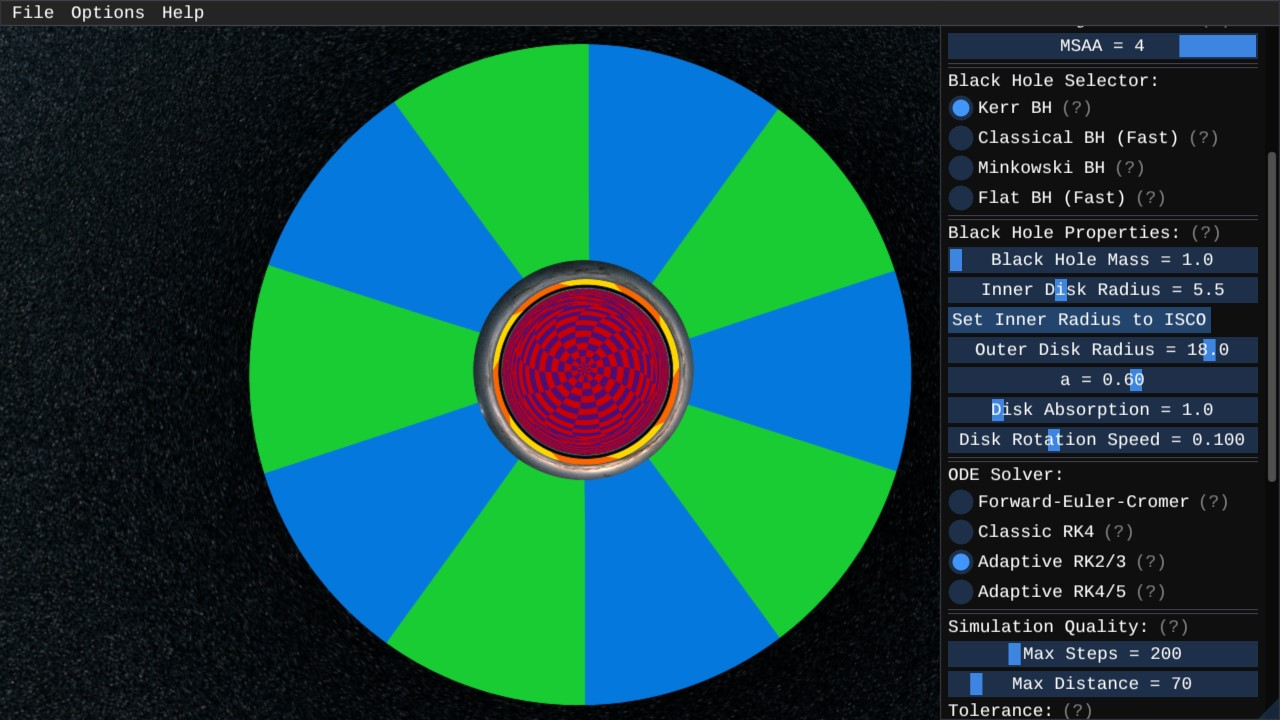
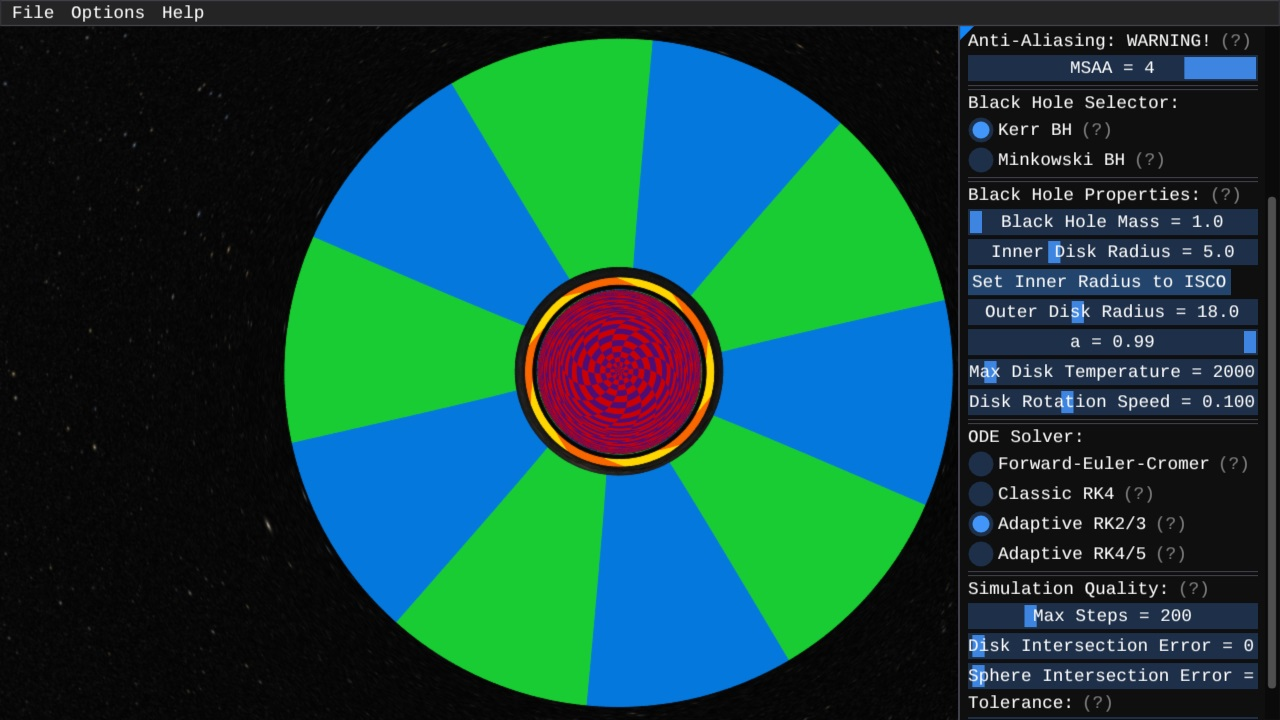
Updated README and README images.  Updated cube map to use NASA's skymap rather than ESA's.  Minor GUI updates for BlackHole.cpp.

diff --git a/voidstar/src/scenes/blackhole/BlackHole.cpp b/voidstar/src/scenes/blackhole/BlackHole.cpp
@@ -537,12 +537,14 @@ void BlackHole::ImGuiBHProperties()
     }
     ImGui::SliderFloat("##OuterDiskRadius", &m_diskOuterRadius, m_diskInnerRadius, 20.0f * m_radius,
         "Outer Disk Radius = %.1f");
-    if (ImGui::SliderFloat("##a", &m_a, 0.0f, fmin(m_mass - 0.01f, 0.99f), "a = %.2f"))
+    if (m_shaderSelector == 0)
     {
-        CalculateISCO();
+        if (ImGui::SliderFloat("##a", &m_a, 0.0f, fmin(m_mass - 0.01f, 0.99f), "a = %.2f"))
+        {
+            CalculateISCO();
+        }
     }
     ImGui::SliderFloat("##Max Temperature", &m_Tmax, 1000.0f, 20000.0f, "Max Disk Temperature = %.0f");
-    ImGui::SliderFloat("##DiskAbsorption", &m_diskAbsorption, 0.0f, 7.0f, "Disk Absorption = %.1f");
     ImGui::SliderFloat("##DiskRotationSpeed", &m_diskRotationSpeed, 0.0f, 0.3f, "Disk Rotation Speed = %.3f");
 }
 
@@ -638,11 +640,16 @@ void BlackHole::ImGuiCinematic()
     }
     ImGui::Separator();
     ImGui::Separator();
-    ImGui::SliderFloat("##BackgroundMultiplier", &m_bloomBackgroundMultiplier, 0.0f, 1.0f, "Background = %.2f");
-    ImGui::SliderFloat("##DiskMultiplier", &m_bloomDiskMultiplier, 0.0f, 10.0f, "Disk = %.1f");
+
+    float maxBackgroundMultiplier = m_useBloom ? 10.0f : 1.0f;
+    float maxEmissionMultiplier = m_useBloom ? 10.0f : 1.0f;
+    ImGui::SliderFloat("##BackgroundMultiplier", &m_bloomBackgroundMultiplier, 0.0f, maxBackgroundMultiplier, "Background = %.2f");
+    ImGui::SliderFloat("##DiskMultiplier", &m_bloomDiskMultiplier, 0.0f, maxEmissionMultiplier, "Disk Emission = %.1f");
+    ImGui::SliderFloat("##DiskAbsorption", &m_diskAbsorption, 0.0f, 10.0f, "Disk Absorption = %.1f");
     ImGui::SliderFloat("##dMdt", &m_dMdt, 0.0f, 30000.0f, "dM/dt = %.0f");
     ImGui::SliderFloat("##blueshiftPower", &m_blueshiftPower, 0.0f, 10.0f, "Blueshift Power = %.2f");
     ImGui::SliderFloat("##BrightnessFromDiskVel", &m_brightnessFromDiskVel, 0.0f, 10.0f, "Disk Velocity Brightness = %.1f");
+
     ImGui::Separator();
     ImGui::Separator();
     if (ImGui::Checkbox("Cinematic Mode", &m_useBloom))
@@ -652,6 +659,8 @@ void BlackHole::ImGuiCinematic()
         }
         else
         {
+            m_bloomBackgroundMultiplier = (m_bloomBackgroundMultiplier > 1.0f) ? 1.0f : m_bloomBackgroundMultiplier;
+            m_bloomDiskMultiplier = (m_bloomDiskMultiplier > 1.0f) ? 1.0f : m_bloomDiskMultiplier;
         }
     }
     if (m_useBloom)

diff --git a/README.md b/README.md
@@ -35,13 +35,20 @@ sphere in order to better make sense of what you're looking at.  By default, the
 the accretion disk and bottom of the accretion disk are coloured differently.</p>
 
 ### Other Screenshots
-Interstellar-esque
+<p>Interstellar-esque</p>
+
 ![Main shot](voidstar/docs/images/interstellar.jpeg)
-Disk debug texture close-up
+
+<p>Disk and sphere debug texture close-up of a near extremal black hole ($a=0.99$).</p>
+
 ![Closeup Debug](voidstar/docs/images/closeup_debug.jpeg)
-Top-down view with disk and sphere debug
+
+<p>Top-down view with disk and sphere debug of a near extremal black hole ($a=0.99$).  Also showing the options menu.</p>
+
 ![Above Debug](voidstar/docs/images/above_debug.jpeg)
-Minkowski metric (i.e. flat space without gravitational lensing)
+
+<p>Minkowski metric (i.e. flat space without gravitational lensing)</p>
+
 ![Without Lensing](voidstar/docs/images/flat.jpeg)
 
 
@@ -83,11 +90,11 @@ Then just open the solution file in Visual Studio and compile.
 
 ### References
 
-- The skybox image of the Milky Way galaxy is thanks to the [European Space Agency](https://sci.esa.int/web/gaia/-/the-colour-of-the-sky-from-gaia-s-early-data-release-3-equirectangular-projection)
+- The skybox image of the Milky Way galaxy is thanks to the [NASA](https://svs.gsfc.nasa.gov/4851)
 - "Einstein Gravity in a Nutshell" by Zee
 - "Gravitation" by Misner, Thorne, and Wheeler
 - ["The Kerr spacetime: A brief introduction"](https://arxiv.org/abs/0706.0622) by Matt Visser (2008)
-- The [blog](https://michaelmoroz.github.io/TracingGeodesics/) by Mykhailo Moroz was very helpful with the Hamiltonian dynamics.
+- The [blog](https://michaelmoroz.github.io/TracingGeodesics/) by Mykhailo Moroz
 - ["Disk-accretion onto a black hole"](https://ui.adsabs.harvard.edu/abs/1974ApJ...191..499P/abstract) by Page and Thorne (1973)
 - ["Detecting Accretion Disks in Active Galactic Nuclei"](https://ui.adsabs.harvard.edu/abs/1997PASJ...49..159F/abstract) by Fanton, et al (1997)
 - ["Line shifts in accretion disks - the case of Fe Ka"](https://arxiv.org/abs/1601.02389) by Jovanovic, et al (2016)
